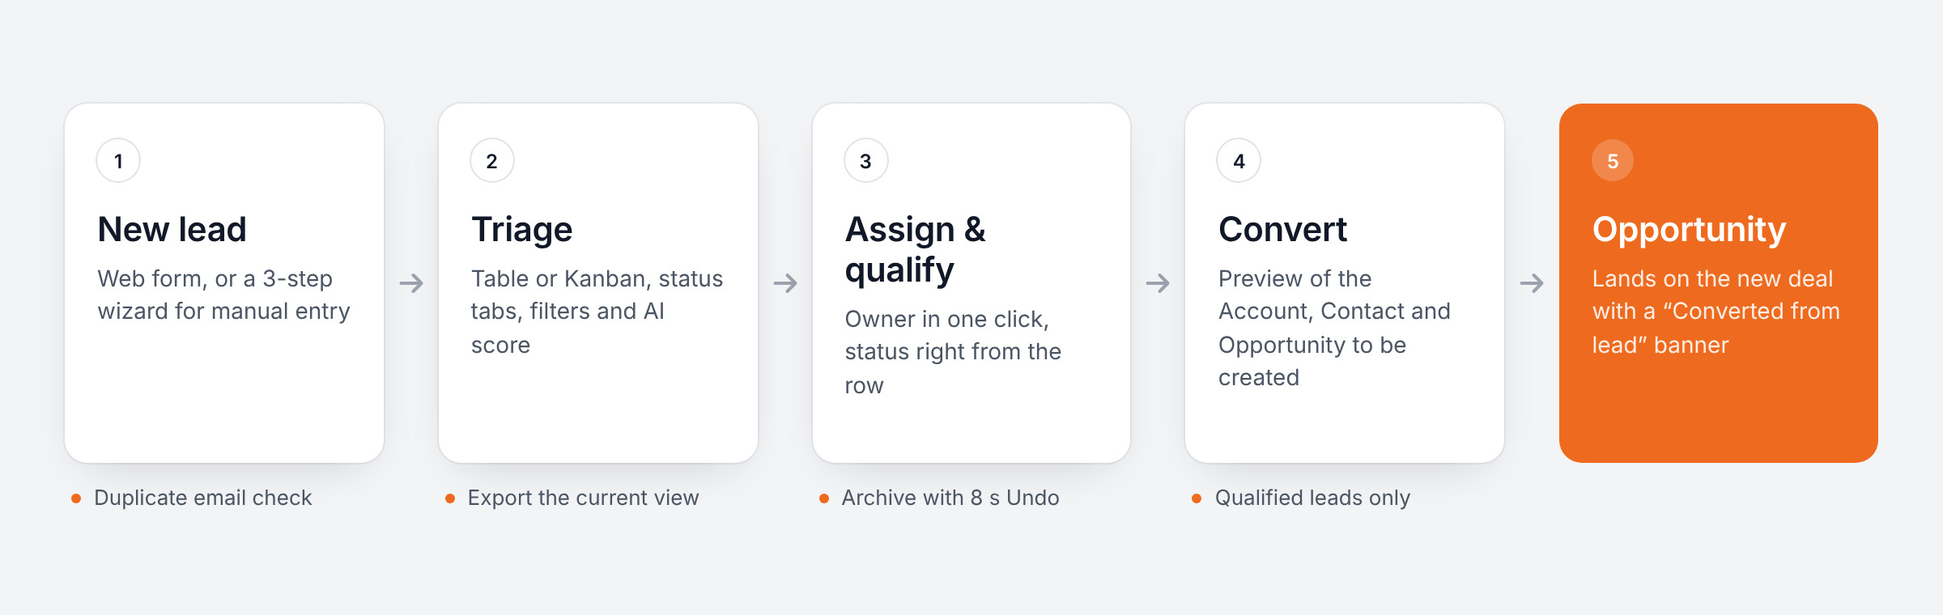
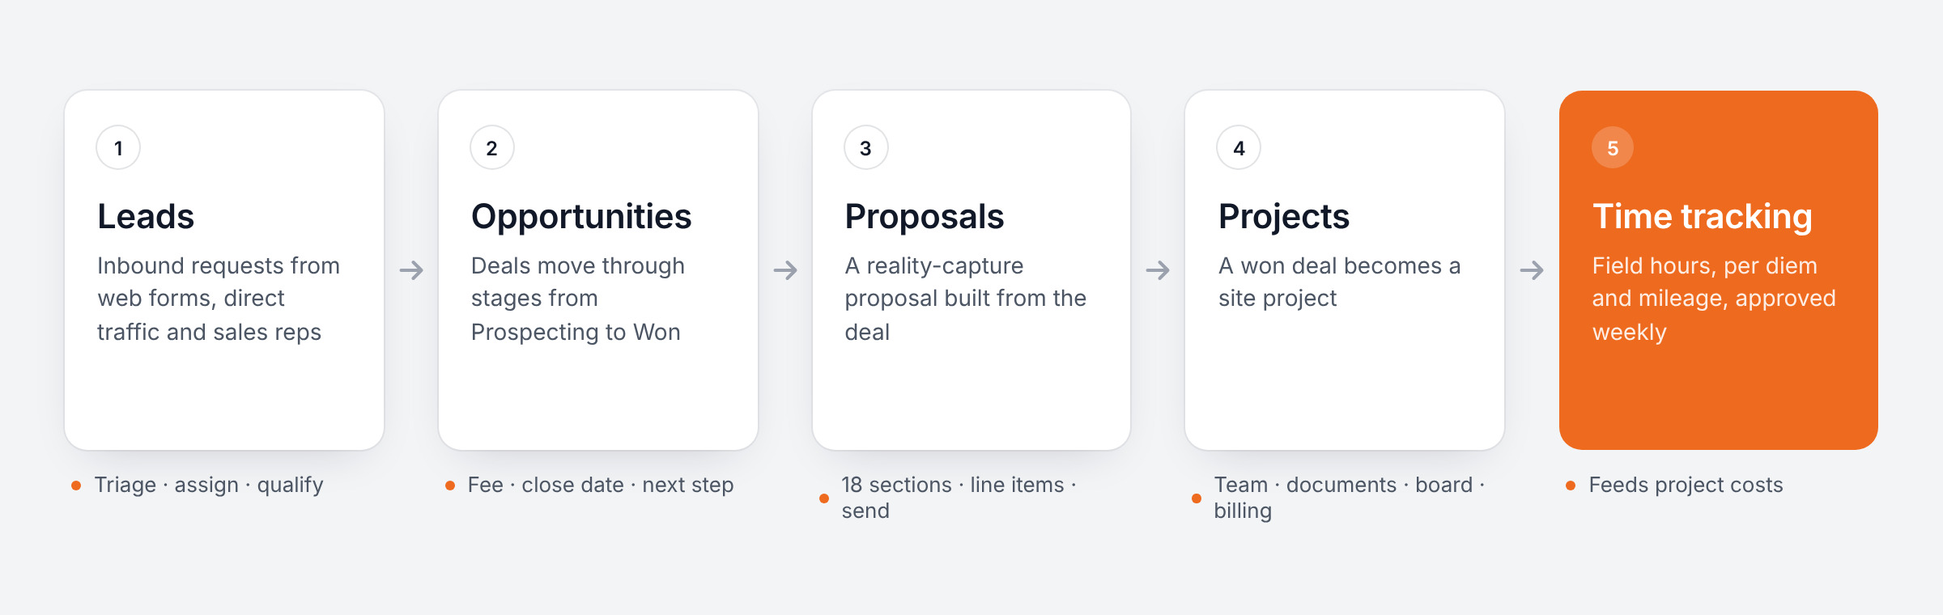
TrueScan: reframe as a platform built from scratch, cover all five modules
- Intro: operations platform for a 3D building-scanning company, not a redesign
- New "How the platform works" map and "Five modules" section
  (Leads, Opportunities, Proposals, Projects, Time tracking) with full screens
- Business-level problems shown on proposal, project and timesheet screens
- Leads micro-interactions kept as "Details that matter"
- Home card, next-case label and EN dictionary updated; HANDOFF notes

Claude-Session: https://claude.ai/code/session_019s9hMNDEcLkm54bZicL17g

diff --git a/cases/truescan.html b/cases/truescan.html
@@ -3,8 +3,8 @@
 <head>
 <meta charset="utf-8">
 <meta name="viewport" content="width=device-width, initial-scale=1, viewport-fit=cover">
-<title>TrueScan CRM — Case study · Alexei Grosul</title>
-<meta name="description" content="TrueScan CRM — a redesign of the Leads section of a sales CRM: triage, assignment, qualification and conversion to opportunities. Product design case study by Alexei Grosul.">
+<title>TrueScan — Case study · Alexei Grosul</title>
+<meta name="description" content="TrueScan — an operations platform designed from scratch for a company that 3D-scans buildings: leads, deals, proposals, projects and time tracking. Product design case study by Alexei Grosul.">
 <link rel="preconnect" href="https://fonts.googleapis.com">
 <link rel="preconnect" href="https://fonts.gstatic.com" crossorigin>
 <link rel="stylesheet" href="https://fonts.googleapis.com/css2?family=Figtree:ital,wght@0,400;0,500;0,600;0,700;0,800;0,900;1,800;1,900&family=Inter+Tight:wght@400;500;600&family=Inter:wght@400;500;600;700&display=swap">
@@ -192,6 +192,7 @@ figure{margin:0}
   .fig .media{aspect-ratio:4/3}
 }
 /* веб-продукт: экраны в две колонки */
+.mods{display:flex;flex-direction:column;gap:16px}.mod{display:grid;grid-template-columns:minmax(0,1.55fr) minmax(0,1fr);gap:clamp(24px,3vw,48px);align-items:center;background:var(--band);border-radius:32px;padding:14px clamp(24px,3vw,44px) 14px 14px}.mod:nth-child(even){grid-template-columns:minmax(0,1fr) minmax(0,1.55fr);padding:14px 14px 14px clamp(24px,3vw,44px)}.mod:nth-child(even) .media{order:2}.mod .media{aspect-ratio:16/10;border-radius:20px;background:#fff;box-shadow:0 0 0 1px rgba(0,0,0,.07)}.mod .media img{width:100%;height:100%;object-fit:cover;object-position:top left;display:block}.mtxt .ey{display:inline-block;font-size:13px;font-weight:600;color:#c2540f;background:rgba(238,106,31,.12);padding:5px 10px;border-radius:13px}.mtxt h3{margin-top:18px;font-family:var(--font-display);font-weight:500;font-size:clamp(24px,2.2vw,32px);letter-spacing:-.025em;line-height:1.15}.mtxt ul{margin:18px 0 0;padding:0;list-style:none;display:flex;flex-direction:column;gap:12px}.mtxt li{position:relative;padding-left:20px;font-size:clamp(15px,1.15vw,17px);line-height:1.45;color:var(--ink-2)}.mtxt li::before{content:"";position:absolute;left:2px;top:.62em;width:7px;height:7px;border-radius:50%;background:#EE6A1F}@media (max-width:900px){.mod,.mod:nth-child(even){grid-template-columns:1fr;padding:12px 12px 28px}.mod:nth-child(even) .media{order:0}.mtxt{padding:0 12px}}
 .learn2{display:grid;grid-template-columns:repeat(3,1fr);gap:16px}.lcard{background:var(--band);border-radius:28px;padding:28px 28px 32px;display:flex;flex-direction:column;gap:12px}.lcard .n{align-self:flex-start;min-width:34px;height:26px;padding:0 8px;border-radius:13px;display:grid;place-items:center;font-size:13px;font-weight:600;color:#c2540f;background:rgba(238,106,31,.12);font-variant-numeric:tabular-nums;margin-bottom:12px}.lcard h3{font-family:var(--font-display);font-weight:500;font-size:clamp(20px,1.7vw,24px);letter-spacing:-.02em;line-height:1.2}.lcard p{font-size:16px;line-height:1.5;color:var(--ink-2)}@media (max-width:900px){.learn2{grid-template-columns:1fr}}
 .stages{display:grid;grid-template-columns:repeat(3,1fr);gap:16px}.stage{background:var(--band);border-radius:28px;padding:12px 12px 24px}.stage .media{aspect-ratio:1.54;border-radius:18px;background:#fff;box-shadow:0 0 0 1px rgba(0,0,0,.07)}.stage .media img{width:100%;height:100%;object-fit:cover;object-position:top left;display:block}.stxt{display:flex;gap:12px;align-items:flex-start;padding:20px 12px 0}.stxt .n{flex:none;width:26px;height:26px;border-radius:50%;display:grid;place-items:center;font-size:12px;font-weight:600;background:#fff;color:var(--ink);box-shadow:0 0 0 1px rgba(0,0,0,.1)}.stxt .n.on{background:#EE6A1F;color:#fff;box-shadow:none}.stxt h3{font-family:var(--font-display);font-weight:500;font-size:20px;letter-spacing:-.02em}.stxt p{margin-top:6px;font-size:15px;line-height:1.45;color:var(--ink-2)}@media (max-width:900px){.stages{grid-template-columns:1fr}}
 .pairs{display:grid;grid-template-columns:1fr 1fr;gap:16px}.pair{background:var(--band);border-radius:28px;padding:12px 12px 28px;display:flex;flex-direction:column}.pair .media{aspect-ratio:16/11;border-radius:18px;background:#fff;box-shadow:0 0 0 1px rgba(0,0,0,.07),0 1px 2px rgba(0,0,0,.04)}.pair .media img{width:100%;height:100%;object-fit:cover;display:block}.ptxt{display:flex;gap:14px;align-items:flex-start;padding:24px 16px 0}.ptxt .n{flex:none;min-width:34px;height:26px;padding:0 8px;border-radius:13px;display:grid;place-items:center;font-size:13px;font-weight:600;color:#c2540f;background:rgba(238,106,31,.12);font-variant-numeric:tabular-nums}.ptxt h3{font-family:var(--font-display);font-weight:500;font-size:clamp(20px,1.7vw,24px);letter-spacing:-.02em;line-height:1.2;color:var(--ink)}.ptxt p{margin-top:8px;font-size:clamp(15px,1.15vw,17px);line-height:1.5;color:var(--ink-2);max-width:48ch}@media (max-width:760px){.pairs{grid-template-columns:1fr}.ptxt{padding:20px 8px 0}}
@@ -223,8 +224,8 @@ figure{margin:0}
 <main>
 <section class="chero wide">
   <div class="top">
-    <div class="tags"><span class="tag">Web app · B2B CRM</span><span class="tag acc">Lead Designer</span></div>
-    <span class="year">Sales CRM &nbsp;·&nbsp; 2026</span>
+    <div class="tags"><span class="tag">Web app · B2B platform</span><span class="tag acc">Lead Designer</span></div>
+    <span class="year">3D scanning &nbsp;·&nbsp; 2026</span>
   </div>
   <div class="media rv"><img src="../img/cases/truescan/cover.jpg" alt="TrueScan: a drone scans a building, next to the CRM leads list and lead profile" loading="lazy"></div>
 </section>
@@ -233,17 +234,17 @@ figure{margin:0}
     <p class="klabel"><span class="kn">//</span> Case study</p>
     <div class="grid">
       <div>
-        <h1 class="h1 rv">TrueScan CRM</h1>
-        <p class="lead rv">A redesign of TrueScan’s internal CRM, starting with Leads: how inbound requests get triaged, assigned, qualified and converted into opportunities.</p>
+        <h1 class="h1 rv">TrueScan</h1>
+        <p class="lead rv">An operations platform for a company that 3D-scans buildings and construction sites, designed from scratch: one system from the first request to a scanned, staffed and costed project.</p>
       </div>
-      <p class="body rv">Leads arrive from web forms, direct traffic and salespeople’s personal forms. The team needs to sort them quickly, give each one an owner, move it through statuses and convert the qualified ones into an account, a contact and an opportunity without losing history. I designed the full Leads section for development: list and Kanban, filters, the lead profile, every flow and every state, on top of a new design foundation in line with the TrueScan website.</p>
+      <p class="body rv">TrueScan captures existing buildings with laser scanners, drones and Matterport and turns the data into models and drawings. The work runs along one long chain: a request becomes a deal, the deal needs a detailed reality-capture proposal, a won deal becomes a site project with a crew, and field hours, per diem and mileage add up to the project’s cost. I built the product around that chain: the information architecture, a design system and five modules ready for development.</p>
     </div>
     <dl class="meta rv">
-      <div><dt>My role</dt><dd>Lead Designer<small>UX, UI, design system, handoff</small></dd></div>
+      <div><dt>My role</dt><dd>Lead Designer<small>Product, UX, UI, design system</small></dd></div>
       <div><dt>Team</dt><dd>[Team]</dd></div>
       <div><dt>Timeline</dt><dd>2 weeks<small>2026</small></dd></div>
-      <div><dt>Platform</dt><dd>Web app · desktop 1440</dd></div>
-      <div><dt>Users</dt><dd>Sales team and administrators</dd></div>
+      <div><dt>Platform</dt><dd>Web app · desktop</dd></div>
+      <div><dt>Users</dt><dd>Sales, project managers, field crews, admins</dd></div>
     </dl>
   </div>
 </section>
@@ -251,45 +252,65 @@ figure{margin:0}
   <div class="wrap">
     <div class="shead">
       <h2 class="h2 rv">Design process</h2>
-      <p class="body rv">From a review of the current platform to mockups that engineers can build without guessing.</p>
+      <p class="body rv">From how a scanning business actually runs to a full product that engineers can build without guessing.</p>
     </div>
     <div class="steps">
-      <div class="step rv"><span class="n">01</span><b>Platform review</b><p>The current app, its real data and how leads move from request to deal.</p></div>
-      <div class="step rv"><span class="n">02</span><b>Foundations</b><p>Colors, Inter type scale, radii, shadows and spacing as Figma Variables and styles.</p></div>
-      <div class="step rv"><span class="n">03</span><b>Flows</b><p>Assign, change status, convert, archive, create, edit and export — each with its rules.</p></div>
-      <div class="step rv"><span class="n">04</span><b>States</b><p>Hover, focus, disabled, empty, no results, loading, errors and undo.</p></div>
-      <div class="step rv"><span class="n">05</span><b>Handoff</b><p>Behavior notes and open assumptions next to every frame, ready for development.</p></div>
+      <div class="step rv"><span class="n">01</span><b>Discovery</b><p>The path from an inbound request to a field scan, a proposal and project costs, including the team’s own timesheet spreadsheet.</p></div>
+      <div class="step rv"><span class="n">02</span><b>Product map</b><p>Five modules and how one record flows through them: lead → opportunity → proposal → project → time.</p></div>
+      <div class="step rv"><span class="n">03</span><b>Foundations</b><p>Colors, Inter type scale, radii, shadows and spacing as Figma Variables, plus one UI kit.</p></div>
+      <div class="step rv"><span class="n">04</span><b>Modules</b><p>List, record, flows and states for every module: 100 desktop screens in total.</p></div>
+      <div class="step rv"><span class="n">05</span><b>Handoff</b><p>Behavior rules, edge cases and open questions for the PM next to every frame.</p></div>
     </div>
   </div>
 </section>
+
 <section class="sec">
   <div class="wrap">
     <div class="shead">
-      <h2 class="h2 rv">From wireframes to interface</h2>
-      <p class="body rv">I started in grey boxes to agree on structure and rules with the team: what lives in the row, what moves to the ⋯ menu, when Convert becomes available. Only then came the UI kit, and the final screens were assembled from it.</p>
+      <h2 class="h2 rv">How the platform works</h2>
+      <p class="body rv">One record travels through five modules. Data entered once moves forward: a converted lead becomes a deal, the deal fills the proposal, a won deal opens the project, and approved time becomes its cost.</p>
     </div>
-    <div class="stages"><div class="stage rv"><div class="media"><img src="../img/cases/truescan/evo-1-wireframe.jpg" alt="Low-fidelity wireframe of the leads list" loading="lazy"></div><div class="stxt"><span class="n">1</span><div><h3>Wireframe</h3><p>Structure, rules and open questions in the margins</p></div></div></div><div class="stage rv"><div class="media"><img src="../img/cases/truescan/evo-2-uikit.jpg" alt="UI kit: buttons in default, hover and pressed states" loading="lazy"></div><div class="stxt"><span class="n">2</span><div><h3>UI kit</h3><p>Components and every state they can be in</p></div></div></div><div class="stage rv"><div class="media"><img src="../img/cases/truescan/evo-3-interface.jpg" alt="Final leads list interface" loading="lazy"></div><div class="stxt"><span class="n on">3</span><div><h3>Interface</h3><p>The final Leads screen, built from the kit</p></div></div></div></div>
+    <figure class="fig rv">
+      <div class="media nat"><img src="../img/cases/truescan/flow.jpg" alt="Platform map: Leads, Opportunities, Proposals, Projects, Time tracking" loading="lazy"></div>
+    </figure>
   </div>
 </section>
+
 <section class="sec">
   <div class="wrap">
     <div class="shead">
       <h2 class="h2 rv">Problems</h2>
-      <p class="body rv">A CRM is used all day. Every extra click and every unclear state is paid for hundreds of times a week.</p>
+      <p class="body rv">A scanning company sells, plans and bills complex field work. Every step had its own tool, or none.</p>
     </div>
     <div class="pairs">
-      <div class="pair rv"><div class="media"><img src="../img/cases/truescan/problem-1-list.jpg" alt="Leads table with status tabs and counts" loading="lazy"></div><div class="ptxt"><span class="n">01</span><div><h3>Thousands of leads</h3><p>Thousands of inbound leads in different statuses. The team needs to see what’s new, what’s stuck and who owns what at a glance.</p></div></div></div>
-      <div class="pair rv"><div class="media"><img src="../img/cases/truescan/problem-2-filters.jpg" alt="Kanban with owner filter dropdown" loading="lazy"></div><div class="ptxt"><span class="n">02</span><div><h3>Everyone slices differently</h3><p>Different people slice the list differently: by owner, source, date or AI score, in a table or on a board.</p></div></div></div>
-      <div class="pair rv"><div class="media"><img src="../img/cases/truescan/problem-3-actions.jpg" alt="Row menu with status submenu" loading="lazy"></div><div class="ptxt"><span class="n">03</span><div><h3>Many actions per lead</h3><p>Many actions on one lead — open, edit, reassign, change status, convert, archive — have to stay discoverable without cluttering every row.</p></div></div></div>
-      <div class="pair rv"><div class="media"><img src="../img/cases/truescan/problem-4-input.jpg" alt="New lead form with duplicate email warning" loading="lazy"></div><div class="ptxt"><span class="n">04</span><div><h3>Messy manual entry</h3><p>Manual entry creates duplicates and incomplete records, and a mistake in one field shouldn’t cost the whole form.</p></div></div></div>
+      <div class="pair rv"><div class="media"><img src="../img/cases/truescan/problem-1-list.jpg" alt="Leads list with status tabs" loading="lazy"></div><div class="ptxt"><span class="n">01</span><div><h3>Requests come from everywhere</h3><p>Web forms, direct traffic and each sales rep’s personal form. A lead needs an owner and a status fast, or it goes cold.</p></div></div></div>
+      <div class="pair rv"><div class="media"><img src="../img/cases/truescan/problem-2-proposal.jpg" alt="Proposal builder with 18 sections and service fees" loading="lazy"></div><div class="ptxt"><span class="n">02</span><div><h3>Every deal needs a heavy proposal</h3><p>A reality-capture proposal has 18 sections: scope, services, team, equipment, terms and fees that depend on what is being scanned.</p></div></div></div>
+      <div class="pair rv"><div class="media"><img src="../img/cases/truescan/problem-3-project.jpg" alt="Project overview with site data, tasks and cost to date" loading="lazy"></div><div class="ptxt"><span class="n">03</span><div><h3>Site work is scattered</h3><p>After a deal is won, the building data, the crew, the files and multi-gigabyte point clouds need one home.</p></div></div></div>
+      <div class="pair rv"><div class="media"><img src="../img/cases/truescan/problem-4-time.jpg" alt="Weekly timesheet with field scan entries" loading="lazy"></div><div class="ptxt"><span class="n">04</span><div><h3>Costs live in a spreadsheet</h3><p>Field hours, per diem and mileage were logged in Google Sheets, so the real cost of a project was hard to see.</p></div></div></div>
+    </div>
+  </div>
+</section>
+
+<section class="sec">
+  <div class="wrap">
+    <div class="shead">
+      <h2 class="h2 rv">Five modules</h2>
+      <p class="body rv">Each module answers one question for one role, and hands its data to the next.</p>
+    </div>
+    <div class="mods">
+      <div class="mod rv"><div class="media"><img src="../img/cases/truescan/module-leads.jpg" alt="Leads module: table with status tabs" loading="lazy"></div><div class="mtxt"><span class="ey">01 · Leads</span><h3>Triage in seconds</h3><ul><li>Table and Kanban with status tabs and live counts</li><li>Owner assigned in one click, status changed from the row</li><li>Convert to opportunity only when a lead is Qualified</li></ul></div></div>
+      <div class="mod rv"><div class="media"><img src="../img/cases/truescan/module-opportunities.jpg" alt="Opportunities module: pipeline Kanban" loading="lazy"></div><div class="mtxt"><span class="ey">02 · Opportunities</span><h3>A pipeline that shows the next step</h3><ul><li>Stages in pipeline order, from Prospecting to Won</li><li>Close dates turn amber within 7 days and red when overdue; deals idle for 30 days are flagged</li><li>Each card suggests the next step: add line items or create a proposal</li></ul></div></div>
+      <div class="mod rv"><div class="media"><img src="../img/cases/truescan/module-proposals.jpg" alt="Proposals module: builder with sections and fees" loading="lazy"></div><div class="mtxt"><span class="ey">03 · Proposals</span><h3>An 18-section proposal, built from the deal</h3><ul><li>Client, scope and line items come from the opportunity</li><li>Scopes like drone capture, Matterport or modeling switch their sections and fees on and off</li><li>A readiness check before sending; a sent revision is locked</li></ul></div></div>
+      <div class="mod rv"><div class="media"><img src="../img/cases/truescan/module-projects.jpg" alt="Projects module: project overview" loading="lazy"></div><div class="mtxt"><span class="ey">04 · Projects</span><h3>Everything about a site in one place</h3><ul><li>Created when a deal is won; site data and the signed proposal carry over</li><li>Overview, Team, Billing, Documents, Board and Notes</li><li>Cost to date from approved time; billing visible only to the right roles</li></ul></div></div>
+      <div class="mod rv"><div class="media"><img src="../img/cases/truescan/module-time.jpg" alt="Time tracking module: weekly timesheet" loading="lazy"></div><div class="mtxt"><span class="ey">05 · Time tracking</span><h3>Field time that becomes project cost</h3><ul><li>A weekly timesheet modeled on the team’s spreadsheet</li><li>Client projects and internal work in one place, approved by week</li><li>Labor = hours × rate, plus per diem and mileage at the project’s rates</li></ul></div></div>
     </div>
   </div>
 </section>
 <section class="sec">
   <div class="wrap">
     <div class="shead">
-      <h2 class="h2 rv">Solutions</h2>
-      <p class="body rv">Make the common path fast, make consequences visible before they happen, and always leave a way back.</p>
+      <h2 class="h2 rv">Details that matter</h2>
+      <p class="body rv">Small decisions that save clicks every day: show consequences before they happen, apply small changes instantly, always leave a way back.</p>
     </div>
     <div class="pairs">
       <div class="pair rv"><div class="media"><img src="../img/cases/truescan/solution-1-convert.jpg" alt="Convert to opportunity confirmation with record preview" loading="lazy"></div><div class="ptxt"><span class="n">01</span><div><h3>Preview before converting</h3><p>Conversion shows exactly what will be created — a new or existing account, a contact and an opportunity in Prospecting — with no fields to fill in.</p></div></div></div>
@@ -299,18 +320,17 @@ figure{margin:0}
     </div>
   </div>
 </section>
+
 <section class="sec">
   <div class="wrap">
     <div class="shead">
-      <h2 class="h2 rv">User flow</h2>
-      <p class="body rv">The path of a lead from the first request to an opportunity, with the safety nets along the way.</p>
+      <h2 class="h2 rv">From wireframes to interface</h2>
+      <p class="body rv">I started in grey boxes to agree on structure and rules with the team: what lives in the row, what moves to the ⋯ menu, when Convert becomes available. Only then came the UI kit, and the final screens were assembled from it.</p>
     </div>
-    <figure class="fig rv">
-      <div class="media nat"><img src="../img/cases/truescan/flow.jpg" alt="User flow: new lead, triage, assign and qualify, convert, opportunity" loading="lazy"></div>
-      <figcaption>Conversion is available only for Qualified leads — from the row menu or as the main button in the profile. The URL keeps the tab, search, filters and view, so any list state can be shared.</figcaption>
-    </figure>
+    <div class="stages"><div class="stage rv"><div class="media"><img src="../img/cases/truescan/evo-1-wireframe.jpg" alt="Low-fidelity wireframe of the leads list" loading="lazy"></div><div class="stxt"><span class="n">1</span><div><h3>Wireframe</h3><p>Structure, rules and open questions in the margins</p></div></div></div><div class="stage rv"><div class="media"><img src="../img/cases/truescan/evo-2-uikit.jpg" alt="UI kit: buttons in default, hover and pressed states" loading="lazy"></div><div class="stxt"><span class="n">2</span><div><h3>UI kit</h3><p>Components and every state they can be in</p></div></div></div><div class="stage rv"><div class="media"><img src="../img/cases/truescan/evo-3-interface.jpg" alt="Final leads list interface" loading="lazy"></div><div class="stxt"><span class="n on">3</span><div><h3>Interface</h3><p>The final Leads screen, built from the kit</p></div></div></div></div>
   </div>
 </section>
+
 <section class="sec">
   <div class="wrap">
     <div class="shead">
@@ -360,10 +380,10 @@ figure{margin:0}
     <div class="results">
       <div class="shead" style="margin-bottom:0">
         <h2 class="h2 rv">Results <span class="mute">that matter.</span></h2>
-        <p class="body rv">A complete, buildable redesign handed off to engineering: Leads ready for development, four more CRM sections drafted for review on the same foundation.</p>
+        <p class="body rv">A complete product, ready to build: Leads handed off for development, and Opportunities, Proposals, Projects and Time tracking designed on the same foundation for review with the client.</p>
       </div>
       <div class="kpis">
-        <div class="kpi rv"><b>100</b><span>Desktop screens across 5 CRM sections</span></div>
+        <div class="kpi rv"><b>100</b><span>Desktop screens across 5 modules</span></div>
         <div class="kpi rv"><b>3 clicks</b><span>From a qualified lead to an opportunity</span></div>
         <div class="kpi rv"><b>3,600+</b><span>Component instances built on one UI kit</span></div>
       </div>

diff --git a/ru.html b/ru.html
@@ -983,13 +983,13 @@ dialog.sheet[open]{animation:pop .45s var(--ease)}
     </a>
     <a class="wk wk-photo sq" data-r="28" data-cursor="Открыть кейс +" href="cases/truescan.html" style="--bg:var(--band);--ih:80%;--fg:#1d1d1f;--fg2:#3a3a3c;--ln:rgba(0,0,0,.12)">
       <div class="wk-info">
-        <span class="wk-n">04 / 04<i>B2B CRM</i></span>
-        <h3>TrueScan CRM</h3>
-        <p>Редизайн CRM для отдела продаж: входящие лиды, назначение, квалификация и конвертация в сделки — со всеми флоу и состояниями.</p>
+        <span class="wk-n">04 / 04<i>3D-сканирование</i></span>
+        <h3>TrueScan</h3>
+        <p>Операционная платформа с нуля для компании, которая 3D-сканирует здания: заявки, сделки, коммерческие предложения, проекты и учёт времени.</p>
         <dl class="wk-kpi"><div><dt>Веб</dt><dd>Тип продукта</dd></div><div><dt>Лид-дизайнер</dt><dd>Моя роль</dd></div><div><dt>2 недели</dt><dd>Длительность</dd></div></dl>
         <span class="wk-cta">Смотреть кейс</span>
       </div>
-      <div class="wk-vis wk-img pvw sq" data-r="20"><div class="pv-ph"><img src="img/cases/truescan/cover.jpg" alt="TrueScan CRM" loading="lazy"></div></div>
+      <div class="wk-vis wk-img pvw sq" data-r="20"><div class="pv-ph"><img src="img/cases/truescan/cover.jpg" alt="TrueScan" loading="lazy"></div></div>
     </a>
   </div>
 </section>

diff --git a/index.html b/index.html
@@ -983,13 +983,13 @@ dialog.sheet[open]{animation:pop .45s var(--ease)}
     </a>
     <a class="wk wk-photo sq" data-r="28" data-cursor="Open case +" href="cases/truescan.html" style="--bg:var(--band);--ih:80%;--fg:#1d1d1f;--fg2:#3a3a3c;--ln:rgba(0,0,0,.12)">
       <div class="wk-info">
-        <span class="wk-n">04 / 04<i>B2B CRM</i></span>
-        <h3>TrueScan CRM</h3>
-        <p>A redesign of a sales CRM: inbound leads, assignment, qualification and conversion to opportunities — with every flow and state.</p>
+        <span class="wk-n">04 / 04<i>3D scanning</i></span>
+        <h3>TrueScan</h3>
+        <p>An operations platform built from scratch for a company that 3D-scans buildings: leads, deals, proposals, projects and time tracking.</p>
         <dl class="wk-kpi"><div><dt>Web</dt><dd>Product type</dd></div><div><dt>Lead Designer</dt><dd>My role</dd></div><div><dt>2 weeks</dt><dd>Duration</dd></div></dl>
         <span class="wk-cta">View case</span>
       </div>
-      <div class="wk-vis wk-img pvw sq" data-r="20"><div class="pv-ph"><img src="img/cases/truescan/cover.jpg" alt="TrueScan CRM" loading="lazy"></div></div>
+      <div class="wk-vis wk-img pvw sq" data-r="20"><div class="pv-ph"><img src="img/cases/truescan/cover.jpg" alt="TrueScan" loading="lazy"></div></div>
     </a>
   </div>
 </section>

diff --git a/cases/stulo.html b/cases/stulo.html
@@ -378,8 +378,8 @@ figure{margin:0}
   <div class="wrap">
     <div class="next">
       <a class="ncase rv" href="truescan.html">
-        <div class="media"><img src="../img/cases/truescan/cover.jpg" alt="TrueScan CRM" loading="lazy"></div>
-        <div class="lbl"><div><small>Next case study</small><b>TrueScan CRM</b></div><span class="arr circle"><svg width="16" height="16" viewBox="0 0 16 16" fill="none" stroke="currentColor" stroke-width="1.6" stroke-linecap="round" stroke-linejoin="round"><path d="M3 8h10M9 4l4 4-4 4"/></svg></span></div>
+        <div class="media"><img src="../img/cases/truescan/cover.jpg" alt="TrueScan" loading="lazy"></div>
+        <div class="lbl"><div><small>Next case study</small><b>TrueScan</b></div><span class="arr circle"><svg width="16" height="16" viewBox="0 0 16 16" fill="none" stroke="currentColor" stroke-width="1.6" stroke-linecap="round" stroke-linejoin="round"><path d="M3 8h10M9 4l4 4-4 4"/></svg></span></div>
       </a>
       <div class="cta rv">
         <div><h2 class="h2" style="font-size:clamp(30px,3.2vw,40px)">Let’s talk.</h2><p class="body" style="margin-top:12px">Tell me about the role or project — I reply within a day.</p></div>

diff --git a/i18n/build_en.py b/i18n/build_en.py
@@ -62,7 +62,7 @@ T = {
  'Избранные кейсы': 'Selected work', 'Продукт.': 'Product.', 'С результатом.': 'With results.',
  'Кейсы скоро появятся здесь — с задачей, подходом и цифрами результата.': 'Case studies are coming soon — with the problem, the approach and measurable results.',
  'Все кейсы': 'All work',
- 'Детский спорт': 'Youth sports', 'Бухгалтерия': 'Accounting', 'Финтех': 'Fintech', 'Лид-дизайнер': 'Lead Designer', '2 недели': '2 weeks', 'Редизайн CRM для отдела продаж: входящие лиды, назначение, квалификация и конвертация в сделки — со всеми флоу и состояниями.': 'A redesign of a sales CRM: inbound leads, assignment, qualification and conversion to opportunities — with every flow and state.', 'Сервис для управления студенческими кредитами: все займы в одном месте, понятный следующий шаг и коучи, которые готовят документы.': 'A service for managing student loans: every loan in one place, a clear next step, and coaches who prepare the paperwork.', 'Перемотка видео': 'Video progress', 'AI-ассистент для бухгалтеров, который отвечает только по проверенным регламентам и показывает источник.': 'An AI assistant for bookkeepers that answers only from validated SOPs and shows the source.', 'Веб': 'Web',
+ 'Детский спорт': 'Youth sports', 'Бухгалтерия': 'Accounting', 'Финтех': 'Fintech', '3D-сканирование': '3D scanning', 'Операционная платформа с нуля для компании, которая 3D-сканирует здания: заявки, сделки, коммерческие предложения, проекты и учёт времени.': 'An operations platform built from scratch for a company that 3D-scans buildings: leads, deals, proposals, projects and time tracking.', 'Лид-дизайнер': 'Lead Designer', '2 недели': '2 weeks', 'Сервис для управления студенческими кредитами: все займы в одном месте, понятный следующий шаг и коучи, которые готовят документы.': 'A service for managing student loans: every loan in one place, a clear next step, and coaches who prepare the paperwork.', 'Перемотка видео': 'Video progress', 'AI-ассистент для бухгалтеров, который отвечает только по проверенным регламентам и показывает источник.': 'An AI assistant for bookkeepers that answers only from validated SOPs and shows the source.', 'Веб': 'Web',
  'Сервис для выбора детских турниров с проверенными отзывами команд, которые там играли.': 'A service for choosing youth tournaments, with verified reviews from teams who played there.', '[Отрасль]': '[Industry]', '[Название кейса]': '[Case title]',
  '[Одна фраза: какая была проблема и что сделал.]': '[One line: the problem and what I did.]',
  '[Платформа]': '[Platform]', 'Тип продукта': 'Product type', '[Роль]': '[Role]', 'Моя роль': 'My role',

diff --git a/cases/_tools/build_truescan.py b/cases/_tools/build_truescan.py
@@ -26,9 +26,6 @@ F.save(F.cover(p('drone_raw1'), p('lead_table')), f'{OUT}/cover.jpg')
 X3 = f'{SRC}/x3'
 V = {
     'problem-1-list':       ('lead_table', 284, 16, 660),      # заголовок, фильтры, вкладки статусов, строки
-    'problem-2-filters':    ('kanban_filters', 284, 16, 660),  # фильтры с счётчиками, чипы, список Owner
-    'problem-3-actions':    ('row_menu', 764, 345, 660),       # меню строки и подменю статуса
-    'problem-4-input':      ('wiz1', 334, 186, 771),           # мастер целиком: дубль email
     'solution-1-convert':   ('convert', 342, 190, 756),        # модалка конвертации целиком
     'solution-2-converted': ('opp_profile', 284, 16, 700),     # баннер «Converted from lead», шапка сделки
     'solution-3-assign':    ('assign', 784, 218, 640),         # колонка Owner и поповер назначения
@@ -37,13 +34,27 @@ V = {
 for k, (n, x, y, w) in V.items():
     F.save(F.view(f'{X3}/{n}.png', x, y, w), f'{OUT}/{k}.jpg')
 
-# ---------- флоу: фрагменты ключевых шагов ----------
+# ---------- задачи бизнеса на экранах других модулей (экспорт 2x) ----------
+F.save(F.view(p('proposal_builder'), 100, 70, 920, s=2), f'{OUT}/problem-2-proposal.jpg')
+F.save(F.view(p('project_overview'), 284, 16, 820, s=2), f'{OUT}/problem-3-project.jpg')
+F.save(F.view(p('timesheet'), 284, 0, 900, s=2), f'{OUT}/problem-4-time.jpg')
+
+# ---------- пять модулей: экран целиком 16:10 ----------
+def module(src, out, s=2):
+    im = Image.open(src).convert('RGB').crop((0, 0, 1440 * s, 900 * s)); F.save(F.fit(im, w=2400), out)
+module(f'{SRC}/x3/lead_table.png', f'{OUT}/module-leads.jpg', 3)
+module(p('opp_kanban'), f'{OUT}/module-opportunities.jpg')         # Opportunities · 02 Kanban (115:504)
+module(p('proposal_builder'), f'{OUT}/module-proposals.jpg')       # Proposals · PR3b Builder — fees (251:434)
+module(p('project_overview'), f'{OUT}/module-projects.jpg')        # Projects · P2 Overview (218:114)
+module(p('timesheet'), f'{OUT}/module-time.jpg')                   # Time tracking · E1v2 timesheet (354:1478)
+
+# ---------- карта платформы ----------
 F.flow_text(f'{OUT}/flow.jpg', [
-    ('New lead', 'Web form, or a 3-step wizard for manual entry', 'Duplicate email check'),
-    ('Triage', 'Table or Kanban, status tabs, filters and AI score', 'Export the current view'),
-    ('Assign & qualify', 'Owner in one click, status right from the row', 'Archive with 8 s Undo'),
-    ('Convert', 'Preview of the Account, Contact and Opportunity to be created', 'Qualified leads only'),
-    ('Opportunity', 'Lands on the new deal with a “Converted from lead” banner', ''),
+    ('Leads', 'Inbound requests from web forms, direct traffic and sales reps', 'Triage · assign · qualify'),
+    ('Opportunities', 'Deals move through stages from Prospecting to Won', 'Fee · close date · next step'),
+    ('Proposals', 'A reality-capture proposal built from the deal', '18 sections · line items · send'),
+    ('Projects', 'A won deal becomes a site project', 'Team · documents · board · billing'),
+    ('Time tracking', 'Field hours, per diem and mileage, approved weekly', 'Feeds project costs'),
 ])
 
 # ---------- от вайрфрейма к интерфейсу ----------

diff --git a/HANDOFF.md b/HANDOFF.md
@@ -55,13 +55,13 @@
 ## Кейсы
 **Шаблон** (`cases/case-template.html`): раскладка по референсу anton-ux.framer.website/batmind, типографика и токены 1:1 с главной (Figtree / Inter Tight / Inter; `.h1`=h-xl, `.h2`=h-l, `.body`=lede-l). Секции: обложка → интро + meta (роль, команда, сроки, платформа, пользователи) → Design process (5 шагов) → Problems (сетка `.mix` 4 карточки + 4 картинки) → Solutions (так же) → User flow → Design system (шрифты + 6 цветов из реальных токенов прототипа) → UI design (`.screens`: широкий + 2) → Results → What I learned → Next case + CTA. Персона из шаблона в кейсах убрана.
 
-**Цепочка «следующий кейс»:** Tournament Guru → BookKeeper AI → StuLo → TrueScan CRM → Tournament Guru. У карточки `.ncase` есть светлый градиент `.ncase .media::after` под подписью.
+**Цепочка «следующий кейс»:** Tournament Guru → BookKeeper AI → StuLo → TrueScan → Tournament Guru. У карточки `.ncase` есть светлый градиент `.ncase .media::after` под подписью.
 
 | Кейс | Прототип | Суть | Шрифты / токены |
 |---|---|---|---|
 | Tournament Guru | https://tournament-guru.vercel.app/home.html | Выбор детских турниров с проверенными отзывами | Space Grotesk + Inter, navy/blue/red |
 | BookKeeper AI | https://bookkeeper-ai-tau.vercel.app/ | Внутренний AI-ассистент бухгалтерской фирмы: отвечает только по опубликованным SOP, с источниками; роли Bookkeeper / SME / QC Librarian | Manrope, `#1A73E8`, статусы Published/Needs Revalidation |
-| TrueScan CRM | Figma `rFFixRw1aznY4sWHRFKyJk` (Leads, Opportunities, Foundations) | Редизайн CRM: лиды → назначение → квалификация → конвертация в сделку; все флоу и состояния | Inter, brand `#EE6A1F`, sidebar `#0F1A2E` |
+| TrueScan | Figma `rFFixRw1aznY4sWHRFKyJk` (Leads, Opportunities, Proposals, Projects, Time tracking, Foundations) | **Не редизайн**: операционная платформа с нуля для компании 3D-сканирования зданий (reality capture). Цикл: Leads → Opportunities → Proposals (шаблон на 18 секций) → Projects → Time tracking (часы, суточные, пробег, недельное согласование). Роль — Lead Designer, срок 2 недели. Метрики только посчитанные по файлу: 100 экранов, 5 модулей, 3 клика лид→сделка, 3600+ инстансов | Inter, brand `#EE6A1F`, sidebar `#0F1A2E` |
 | StuLo | https://stulo-v2.vercel.app/#signin («Explore the demo») | Управление федеральными студенческими кредитами США: синк займов, следующий шаг, AI-коуч + живые коучи, декодер писем, PSLF | Bricolage Grotesque + Manrope, navy `#121740`, bright `#465AFF` |
 
 Во всех кейсах **плейсхолдеры** ждут ответа Алексея: роль, команда, сроки, год, результаты (3 метрики), «What I learned». Также `[Роль]`/`[Срок]` в карточках на главной.
@@ -107,3 +107,10 @@ for c in ('tournament-guru','bookkeeper-ai','stulo'):
 2. Ещё кейсы из прототипов: Listing Suite https://listing-suite.vercel.app/ · Care Around Me https://care-around-me.vercel.app/
 3. Заполнить плейсхолдеры кейсов, когда Алексей пришлёт роль, команду, сроки, год, результаты, выводы.
 4. Открытые мелочи: финальный заголовок hero, фотореальные картинки форматов, фото получше для Julia F., реальные цифры для карточки достижений, CV (PDF) — см. `AUDIT.md`.
+
+## TrueScan — как устроены визуалы
+- Стиль по фидбеку Алексея: плоско, крупно, без перспективы/3D и сильных свечений, без наложенных теней-карточек.
+- `cases/_tools/flat.py`: `view()` — кадр-окно в реальный экран 16:11 (элемент целиком, родные тени макета), `flow_text`, `device`, `cover` (дрон из фрейма «E0 · Sign in» + экран). JPEG q92 без субдискретизации.
+- Экспорт фреймов из Figma: MCP `download_assets` (scale 2/3) → `cases/_src/truescan/` и `x3/`. Нужен хост www.figma.com в сети окружения.
+- `CHROME_PATH=/opt/pw-browsers/chromium python3 cases/_tools/build_truescan.py`.
+- Кейсы при открытии прокручиваются наверх (скрипт в начале body); прогресс-бар шоурила — тонкая линия по низу ролика.
